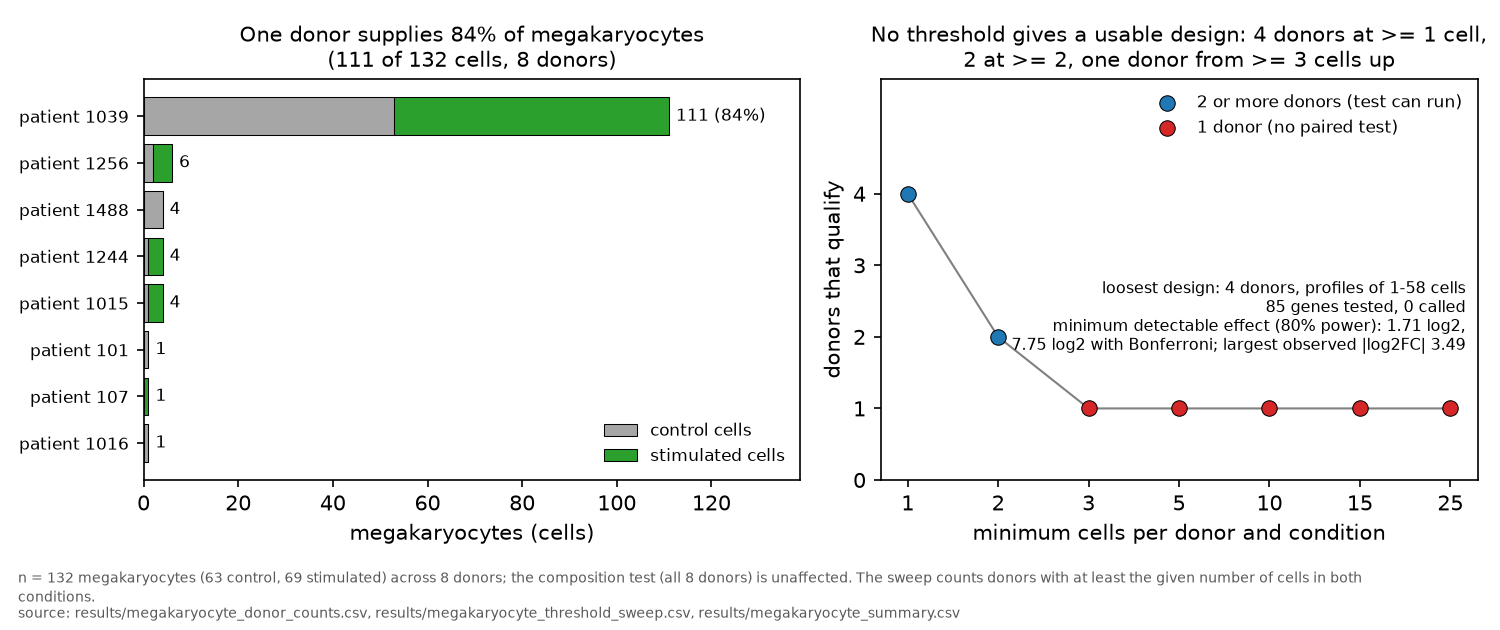
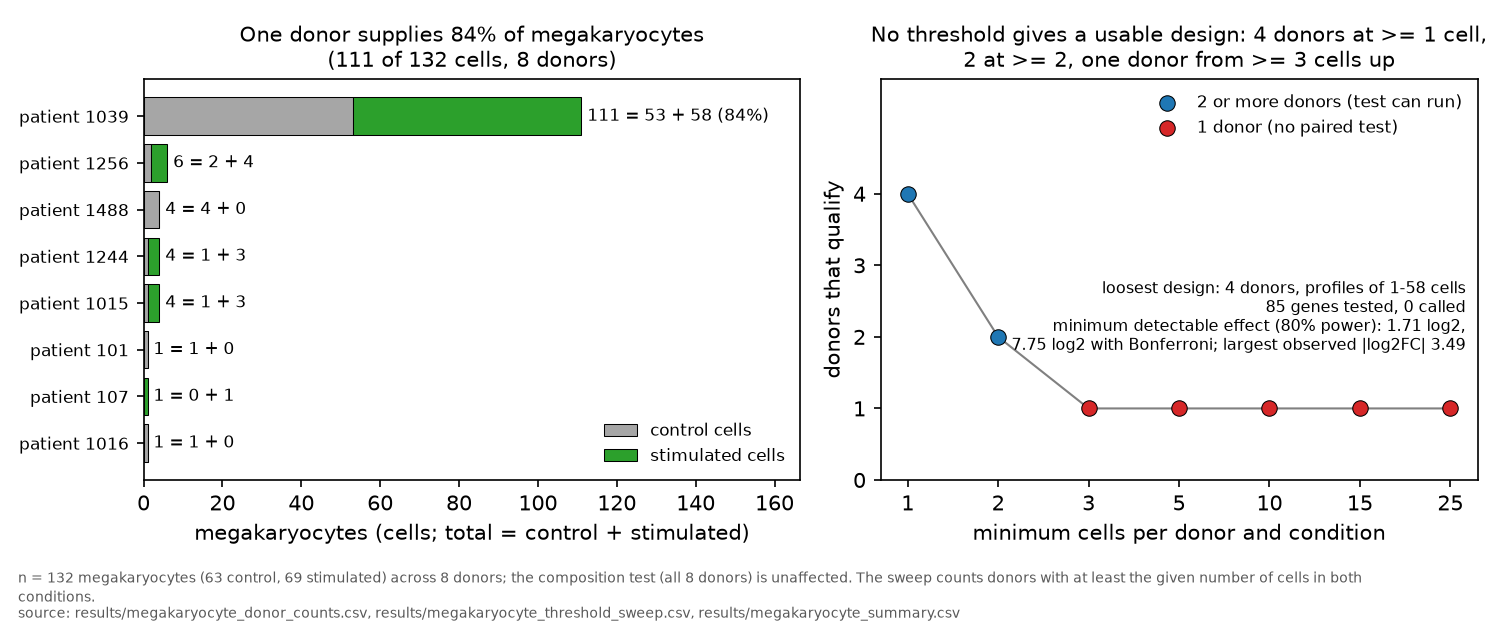
style(figures): megakaryocyte bars carry the control + stimulated count per donor

diff --git a/scripts/make_figures.py b/scripts/make_figures.py
@@ -767,18 +767,20 @@ def fig_megakaryocyte():
             label="control cells")
     ax.barh(y, d["stim"], left=d["ctrl"], color="C2", edgecolor="black",
             linewidth=0.5, label="stimulated cells")
-    for yi, tot, share in zip(y, d["total"], d["share_of_type"]):
-        ax.text(tot + 1.5, yi, f"{tot}" + (f" ({share:.0%})" if share > 0.5 else ""),
-                va="center", fontsize=8)
+    for yi, c, st, tot, share in zip(y, d["ctrl"], d["stim"], d["total"],
+                                     d["share_of_type"]):
+        ax.text(tot + 1.5, yi, f"{tot} = {c} + {st}"
+                + (f" ({share:.0%})" if share > 0.5 else ""), va="center", fontsize=8)
     ax.set_yticks(y)
     ax.set_yticklabels(d["donor"].str.replace("_", " "), fontsize=8)
-    ax.set_xlim(0, d["total"].max() * 1.25)
+    ax.set_xlim(0, d["total"].max() * 1.5)
     ax.set(xlabel="megakaryocytes (cells)",
            title=f"One donor supplies {s['largest_donor_share']:.0%} of megakaryocytes\n"
                  f"({int(d['total'].max())} of {int(s['n_cells'])} cells, "
                  f"{len(d)} donors)")
     ax.title.set_fontsize(10)
     ax.legend(frameon=False, fontsize=8, loc="lower right")
+    ax.set_xlabel("megakaryocytes (cells; total = control + stimulated)")
 
     ax = axes[1]
     xs = np.arange(len(sweep))
